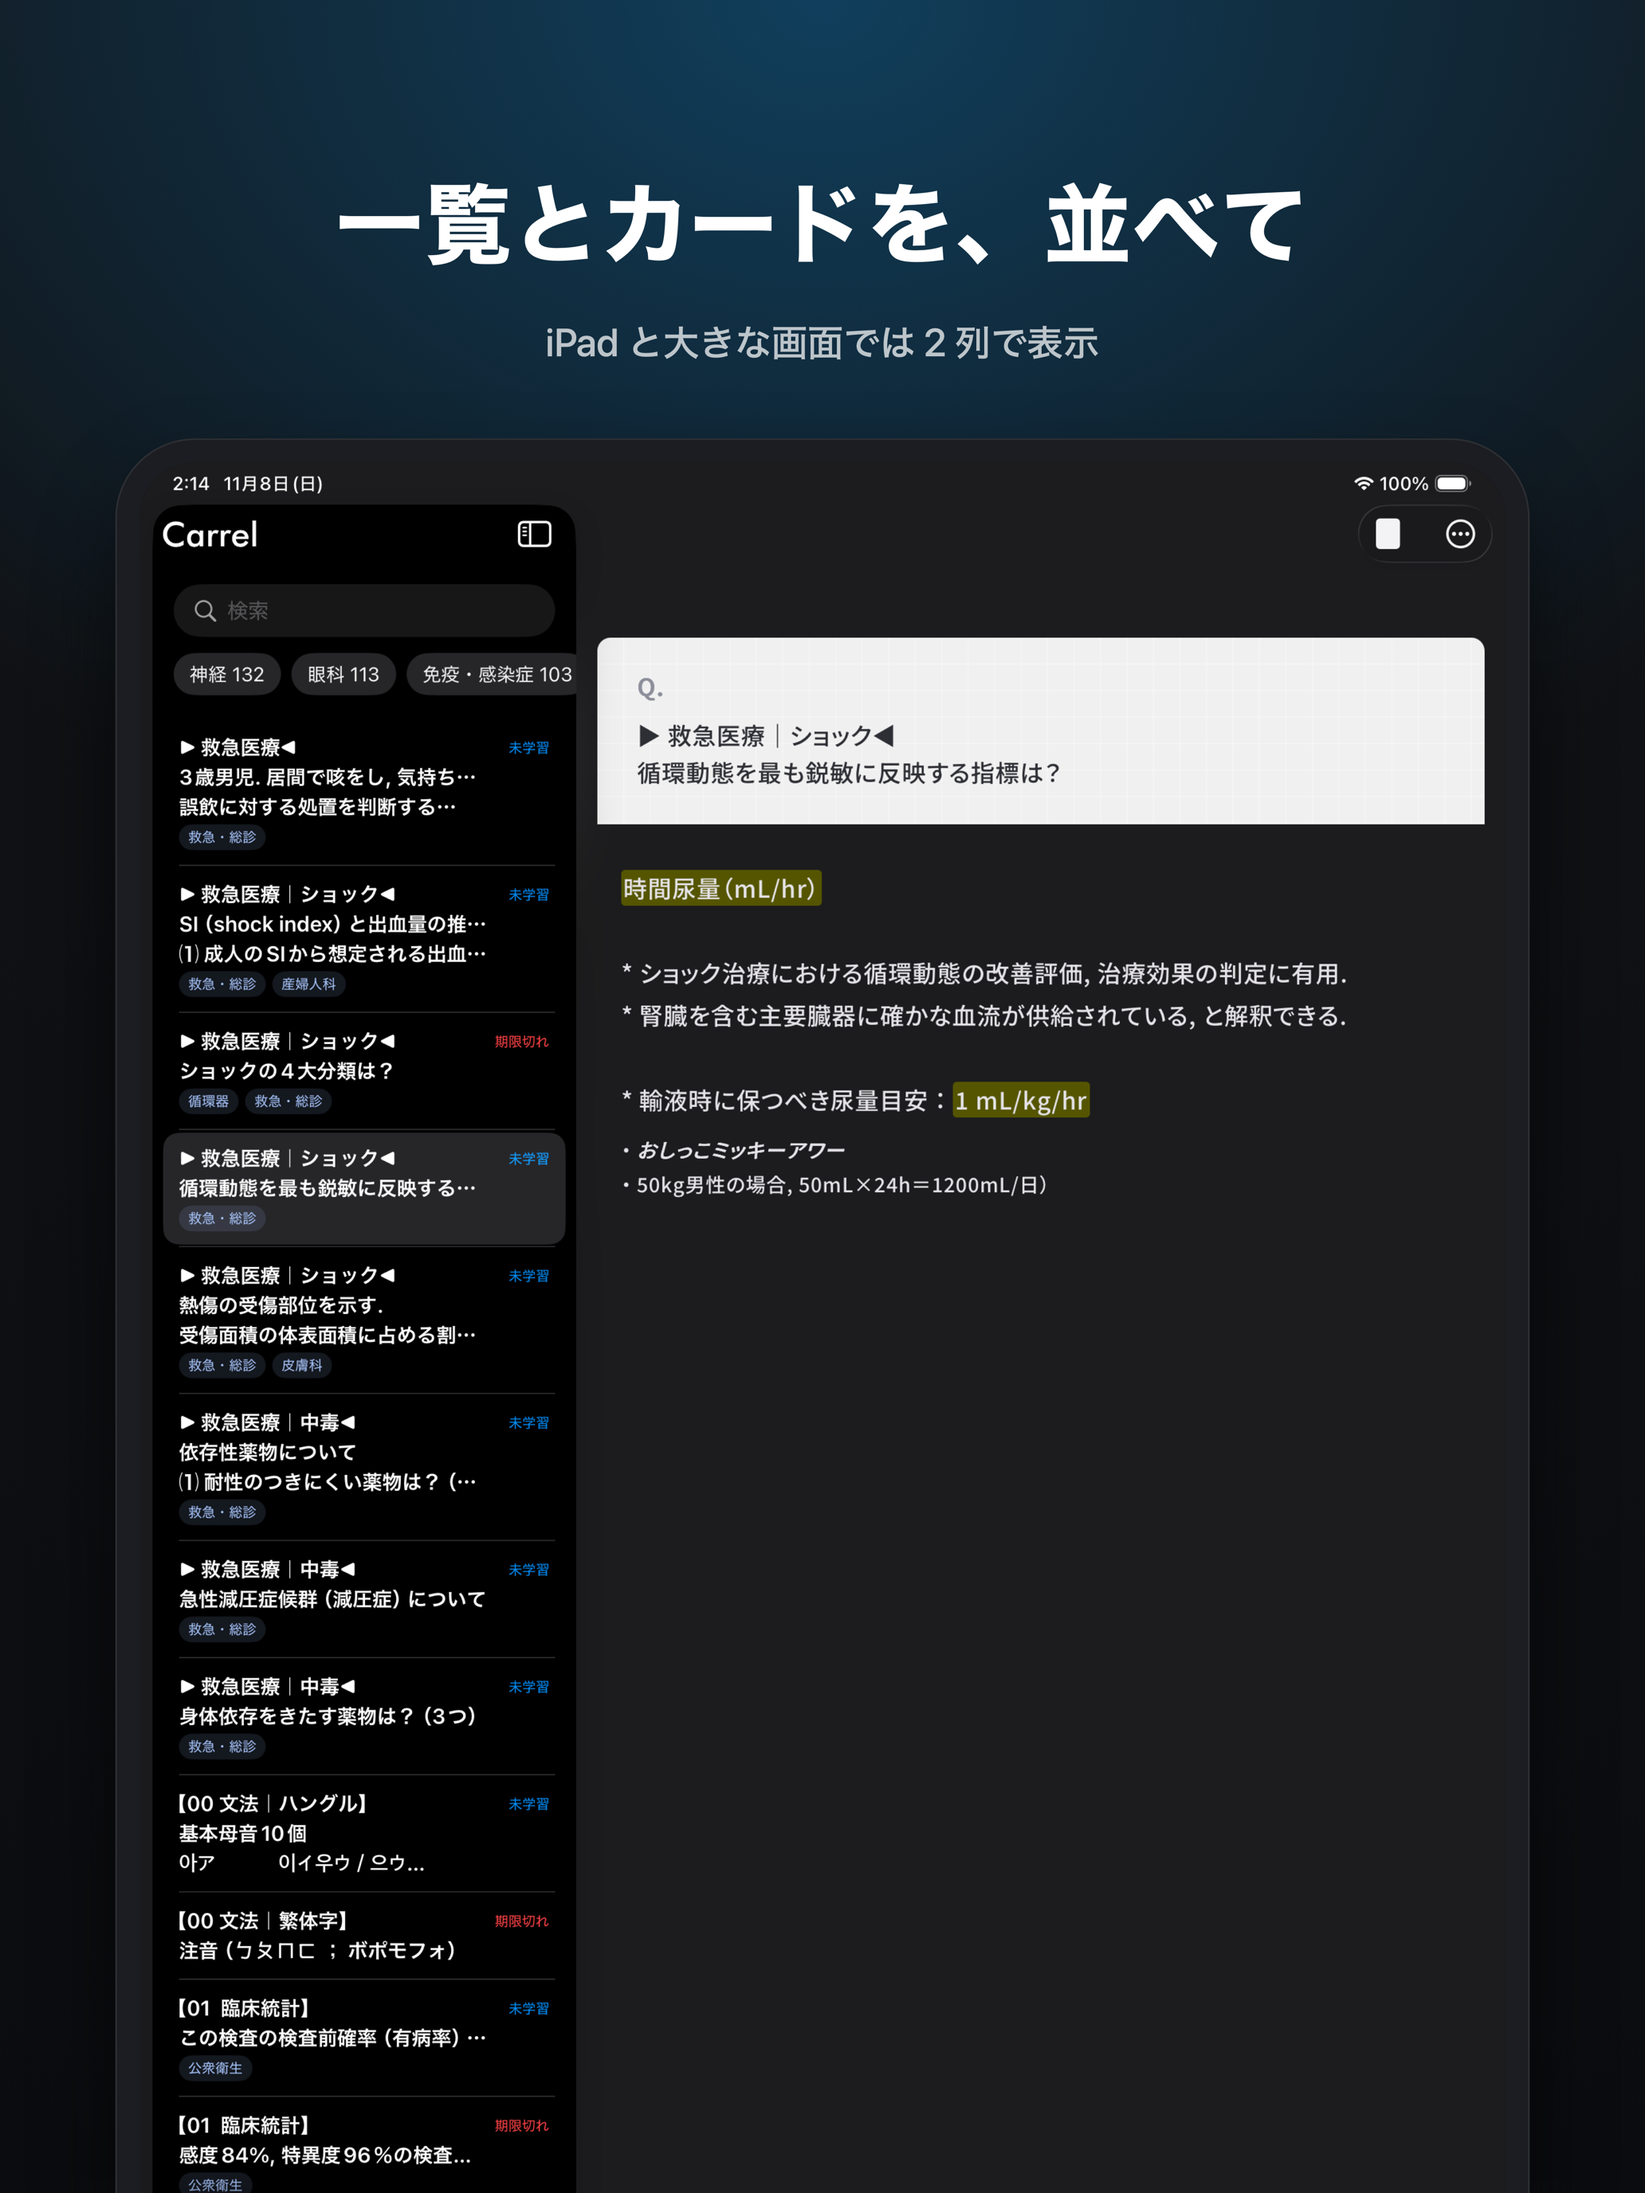
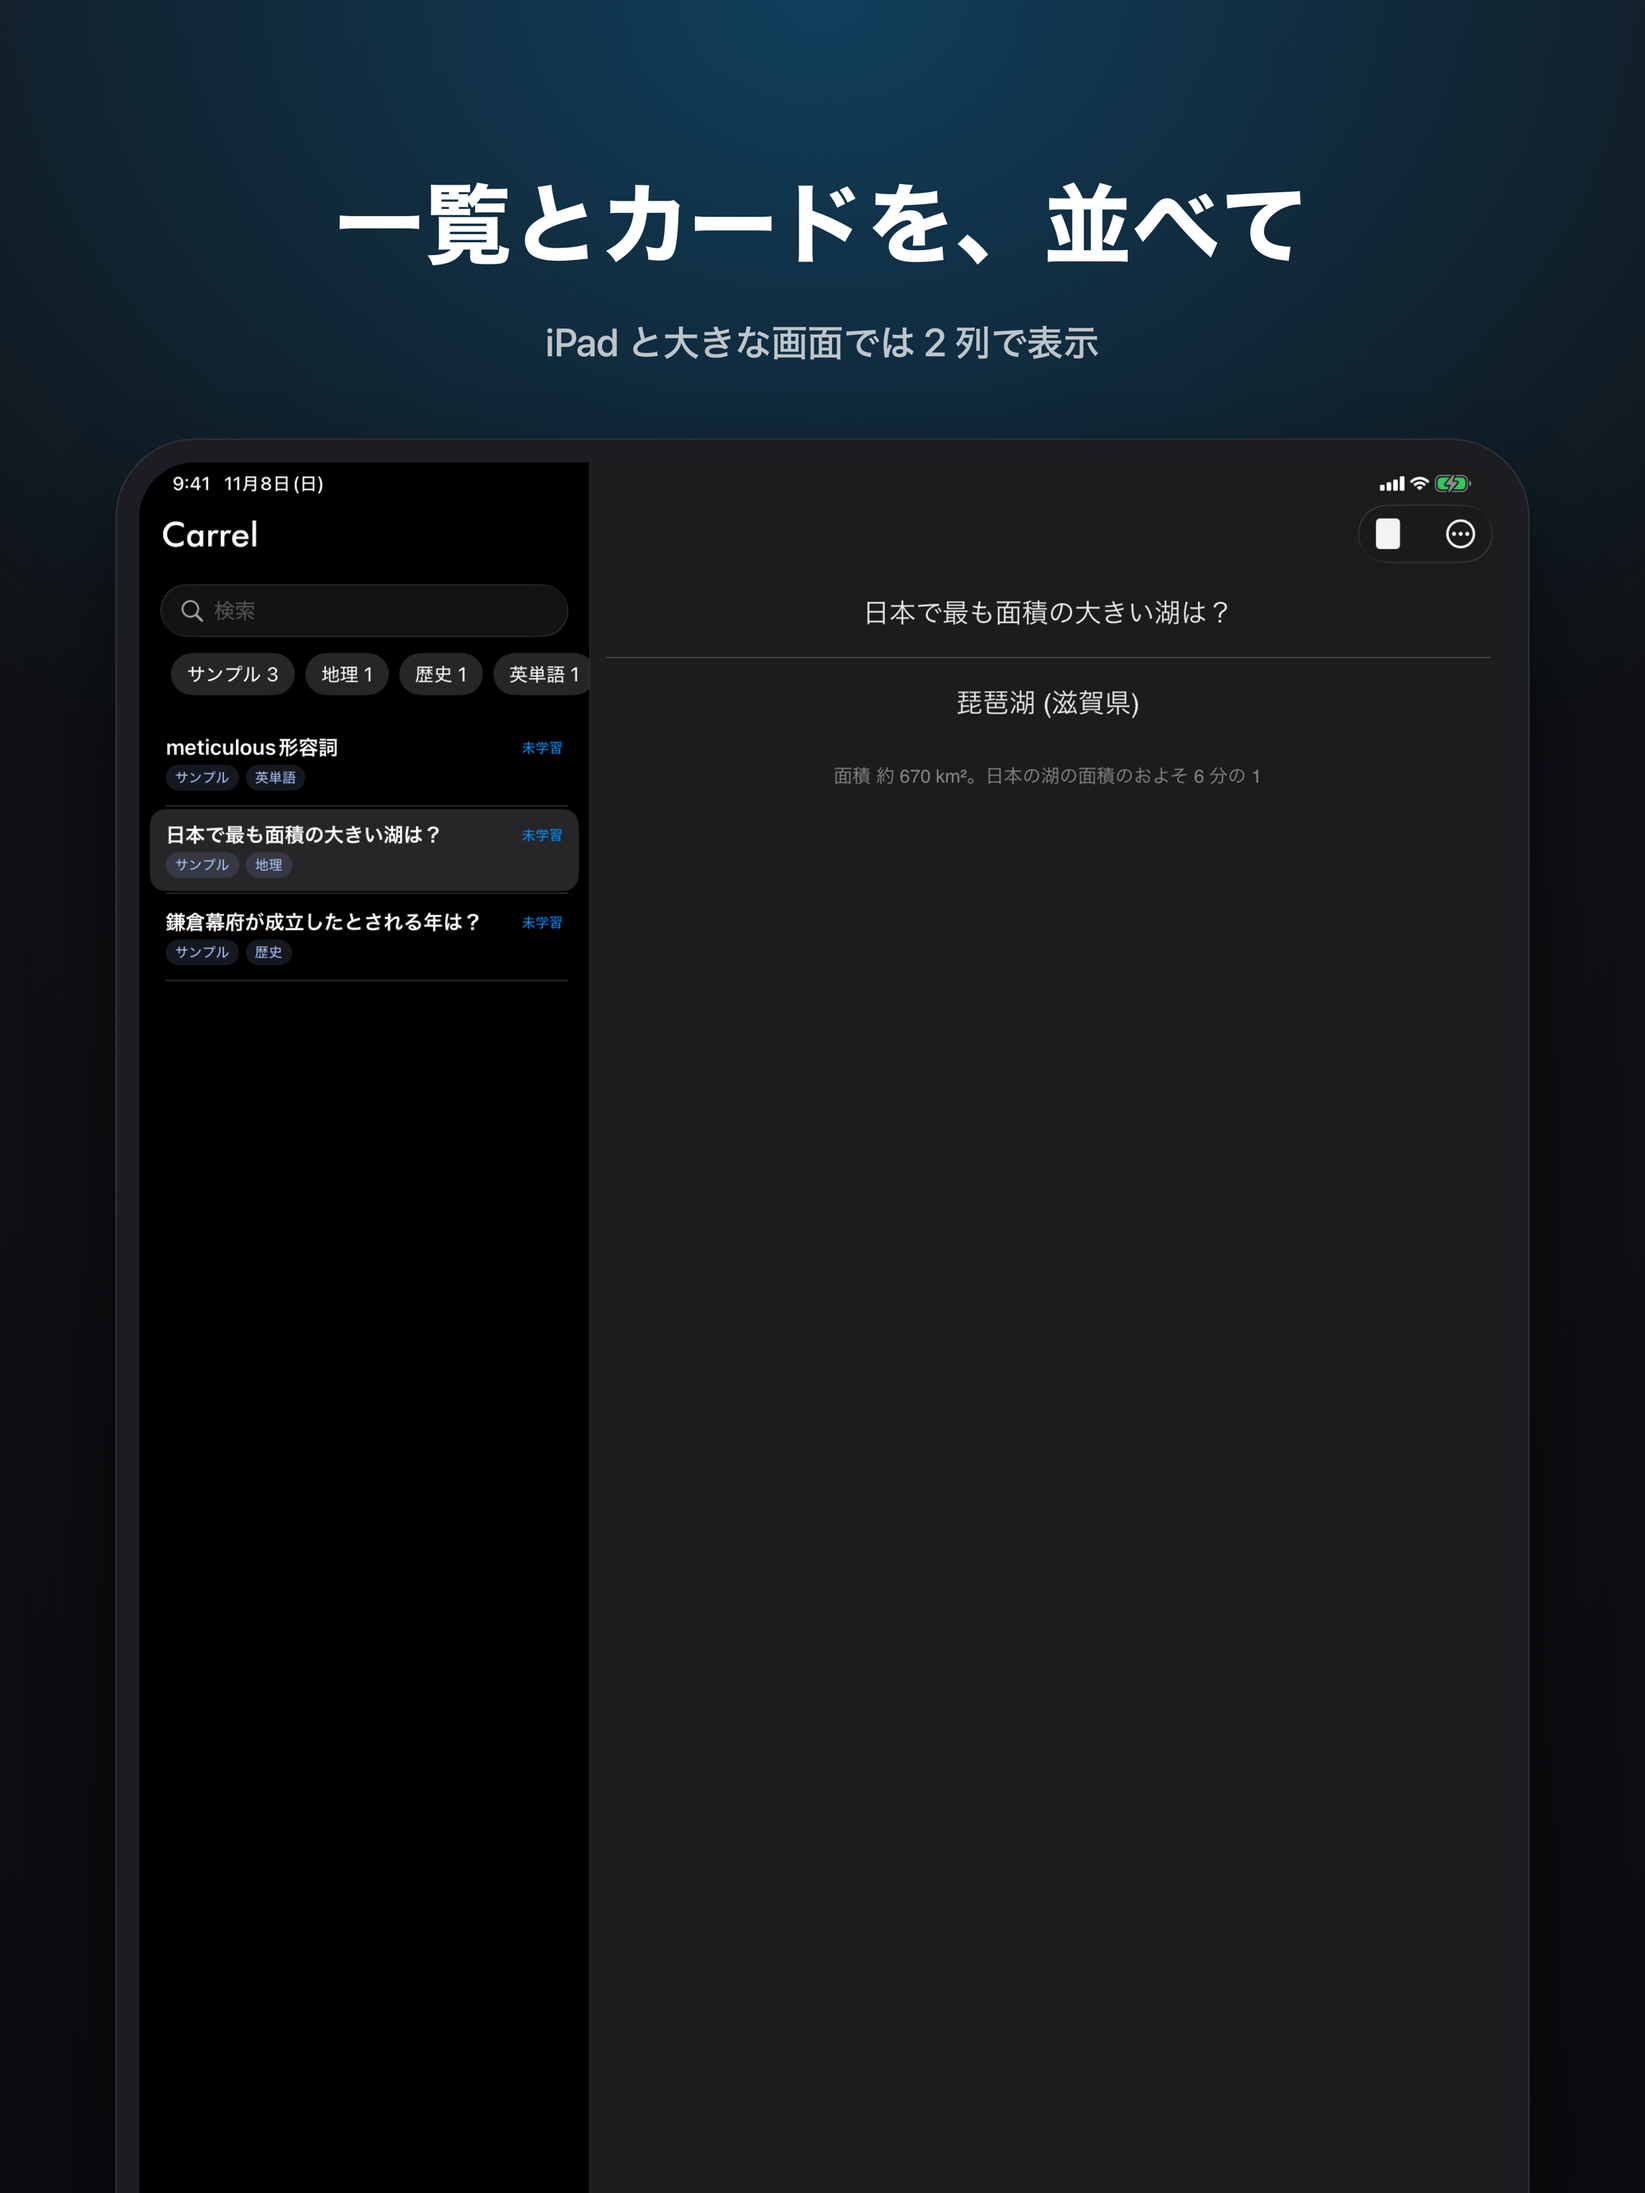
iOS: 広い画面では一覧とカードを自前で並べ、一覧を上・左・下の縁まで届かせる (浮いた角丸の板にしない)。学習のカウンターをバー中央へ移し、カードの余白を安全領域から計算して重ならないように。iPad の App Store 画像をサンプルカードで撮り直し

Changed region(s): [[0.062, 0.1875, 0.9302, 1.0], [0.8372, 0.2188, 0.8682, 0.25]]

diff --git a/ios/AnkiPreview/Sources/EditStudyViews.swift b/ios/AnkiPreview/Sources/EditStudyViews.swift
@@ -226,24 +226,21 @@ struct StudyView: View {
                     // カードは画面いっぱい (上下の余白なし)。カウンターとボタンはその上に重ねる (地は透明) ので、
                     // Liquid Glass が中身を透かす。中身がボタンに隠れないぶんは HTML 側の余白でとる
                     // 地はフェードの外に置く (切り替えの一瞬、下の画面が透けないように)
+                    GeometryReader { geo in
                     ZStack {
                         bg.ignoresSafeArea()
-                        PreviewView(html: store.studyHTML(card: card, back: showBack, dark: dark), mediaDir: Store.mediaDir,
+                        PreviewView(html: store.studyHTML(card: card, back: showBack, dark: dark,
+                                                          topInset: geo.safeAreaInsets.top, bottomInset: geo.safeAreaInsets.bottom),
+                                    mediaDir: Store.mediaDir,
                                     highlights: [], controller: preview,
-                                    onImage: { url in store.lightbox = LightboxItem(url: url) })
+                                    onImage: { url in store.lightbox = LightboxItem(url: url) },
+                                    fixedInsets: true)
                             .ignoresSafeArea()
                             .id(card.id)                 // カードが変わったら作り直して、フェードで切り替える
                             .transition(.opacity)
                     }
-                    .overlay(alignment: .bottom) { answerBar(card) }
-                    // カウンター (プレビューの「1 / 114」と同じ見た目)。スクロールしても動かないよう、カードの上に重ねて固定
-                    .overlay(alignment: .top) {
-                        Text("\(min(done + 1, total)) / \(total)")
-                            .font(.footnote).monospacedDigit().foregroundStyle(.secondary).fixedSize()
-                            .padding(.horizontal, 14).padding(.vertical, 8)
-                            .glassEffect(.regular, in: Capsule())
-                            .padding(.top, 4)
                     }
+                    .overlay(alignment: .bottom) { answerBar(card) }
                     .toolbarBackground(.hidden, for: .navigationBar)
                     .toolbarColorScheme(bg.isDark ? .dark : .light, for: .navigationBar)
                 } else {
@@ -260,6 +257,15 @@ struct StudyView: View {
             .navigationBarTitleDisplayMode(.inline)
             .toolbar {
                 ToolbarItem(placement: .cancellationAction) { Button { dismiss() } label: { Image(systemName: "xmark") } }
+                // カウンター (プレビューの「1 / 114」と同じ見た目)。ナビゲーションバーの中央に置けば、カードの中身と重ならない
+                if current != nil {
+                    ToolbarItem(placement: .principal) {
+                        Text("\(min(done + 1, total)) / \(total)")
+                            .font(.footnote).monospacedDigit().foregroundStyle(.secondary).fixedSize()
+                            .padding(.horizontal, 14).padding(.vertical, 8)
+                            .glassEffect(.regular, in: Capsule())
+                    }
+                }
 
                 if let card = current {
                     ToolbarItem(placement: .topBarTrailing) {

diff --git a/ios/AnkiPreview/Sources/ContentView.swift b/ios/AnkiPreview/Sources/ContentView.swift
@@ -8,12 +8,25 @@ struct ContentView: View {
     @Environment(\.horizontalSizeClass) private var sizeClass
 
     var body: some View {
-        NavigationSplitView(columnVisibility: $columns) {
-            NoteListView(showSettings: $showSettings, wide: sizeClass == .regular)
-        } detail: {
-            DetailView(showSettings: $showSettings)
+        Group {
+            if sizeClass == .regular {
+                // 広い画面 (iPad・開いた Duo): 一覧とカードを並べる。システムの分割表示は一覧を角丸の浮いた板にするので、
+                // 自前で並べて、一覧は上・左・下の縁まで届くようにする
+                HStack(spacing: 0) {
+                    NavigationStack { NoteListView(showSettings: $showSettings, wide: true) }
+                        .frame(width: 340)
+                    Divider().ignoresSafeArea()
+                    NavigationStack { DetailView(showSettings: $showSettings) }
+                }
+            } else {
+                NavigationSplitView(columnVisibility: $columns) {
+                    NoteListView(showSettings: $showSettings, wide: false)
+                } detail: {
+                    DetailView(showSettings: $showSettings)
+                }
+                .navigationSplitViewStyle(.balanced)
+            }
         }
-        .navigationSplitViewStyle(.balanced)
         .sheet(isPresented: $showSettings) { SettingsView().environmentObject(store) }
         .sheet(item: $store.editing) { target in NoteEditorView(note: target.note).environmentObject(store) }
         .sheet(isPresented: $store.studySetup) { StudySetupView().environmentObject(store) }
@@ -454,6 +467,8 @@ struct NoteListView: View {
         List(selection: $store.selectedNoteId) {
             ForEach(Array(store.filtered.enumerated()), id: \.element.id) { i, note in
                 NoteRow(note: note, query: store.query).tag(note.id)
+                    .contentShape(Rectangle())
+                    .onTapGesture { store.selectedNoteId = note.id }
                     // 左にスワイプで削除 (確認してから)。role を destructive にすると確認前に行が消える動きが入って
                     // アラートと同時に戻る不自然な動きになるので、赤い通常のボタンにする
                     .swipeActions(edge: .trailing, allowsFullSwipe: false) {

diff --git a/ios/AnkiPreview/Sources/PreviewView.swift b/ios/AnkiPreview/Sources/PreviewView.swift
@@ -34,6 +34,8 @@ struct PreviewView: UIViewRepresentable {
     let highlights: [String]
     var controller: PreviewController
     var onImage: (URL) -> Void = { _ in }
+    /// true なら安全領域ぶんの自動の余白を付けない (学習モードのように画面いっぱいに出し、余白は HTML 側でとるとき)
+    var fixedInsets = false
 
     func makeCoordinator() -> Coordinator { Coordinator(self) }
 
@@ -45,6 +47,7 @@ struct PreviewView: UIViewRepresentable {
         view.isOpaque = false
         view.backgroundColor = .clear
         view.scrollView.backgroundColor = .clear
+        if fixedInsets { view.scrollView.contentInsetAdjustmentBehavior = .never }
         view.navigationDelegate = context.coordinator
         controller.webView = view
         return view
@@ -53,6 +56,10 @@ struct PreviewView: UIViewRepresentable {
     func updateUIView(_ view: WKWebView, context: Context) {
         context.coordinator.parent = self
         controller.webView = view
+        if fixedInsets, view.scrollView.contentInsetAdjustmentBehavior != .never {
+            view.scrollView.contentInsetAdjustmentBehavior = .never
+            view.scrollView.contentInset = .zero
+        }
         if context.coordinator.lastHTML != html {
             context.coordinator.lastHTML = html
             context.coordinator.pendingHighlights = highlights

diff --git a/ios/AnkiPreview/Sources/Store.swift b/ios/AnkiPreview/Sources/Store.swift
@@ -429,11 +429,11 @@ final class Store: ObservableObject {
     }
 
     /// 学習用の HTML (表か裏)
-    func studyHTML(card: CardInfo, back: Bool, dark: Bool) -> String {
+    func studyHTML(card: CardInfo, back: Bool, dark: Bool, topInset: CGFloat = 0, bottomInset: CGFloat = 0) -> String {
         guard let note = notes.first(where: { $0.id == card.noteId }), let nt = notetypes[note.notetypeId] else { return "" }
         let r = TemplateRenderer.render(note: note, notetype: nt, templateIndex: min(card.ord, max(0, nt.templates.count - 1)))
-        // 画面いっぱいに出すので、上はカウンター、下はボタンに隠れないぶんの余白を中身側でとる
-        let css = nt.css + "\nhtml, body { padding-top: 20px !important; padding-bottom: 60px !important; }"
+        // 画面いっぱいに出すので、上はバー、下はボタンに隠れないぶんの余白を中身側でとる (端末ごとの安全領域を足す)
+        let css = nt.css + "\nbody { padding-top: \(Int(topInset) + 16)px !important; padding-bottom: \(Int(bottomInset) + 70)px !important; }"
         return TemplateRenderer.page(body: back ? (r.back.isEmpty ? r.front : r.back) : r.front, css: css, textZoom: textZoom, dark: dark, hasNightCSS: nt.hasNightCSS)
     }
 
